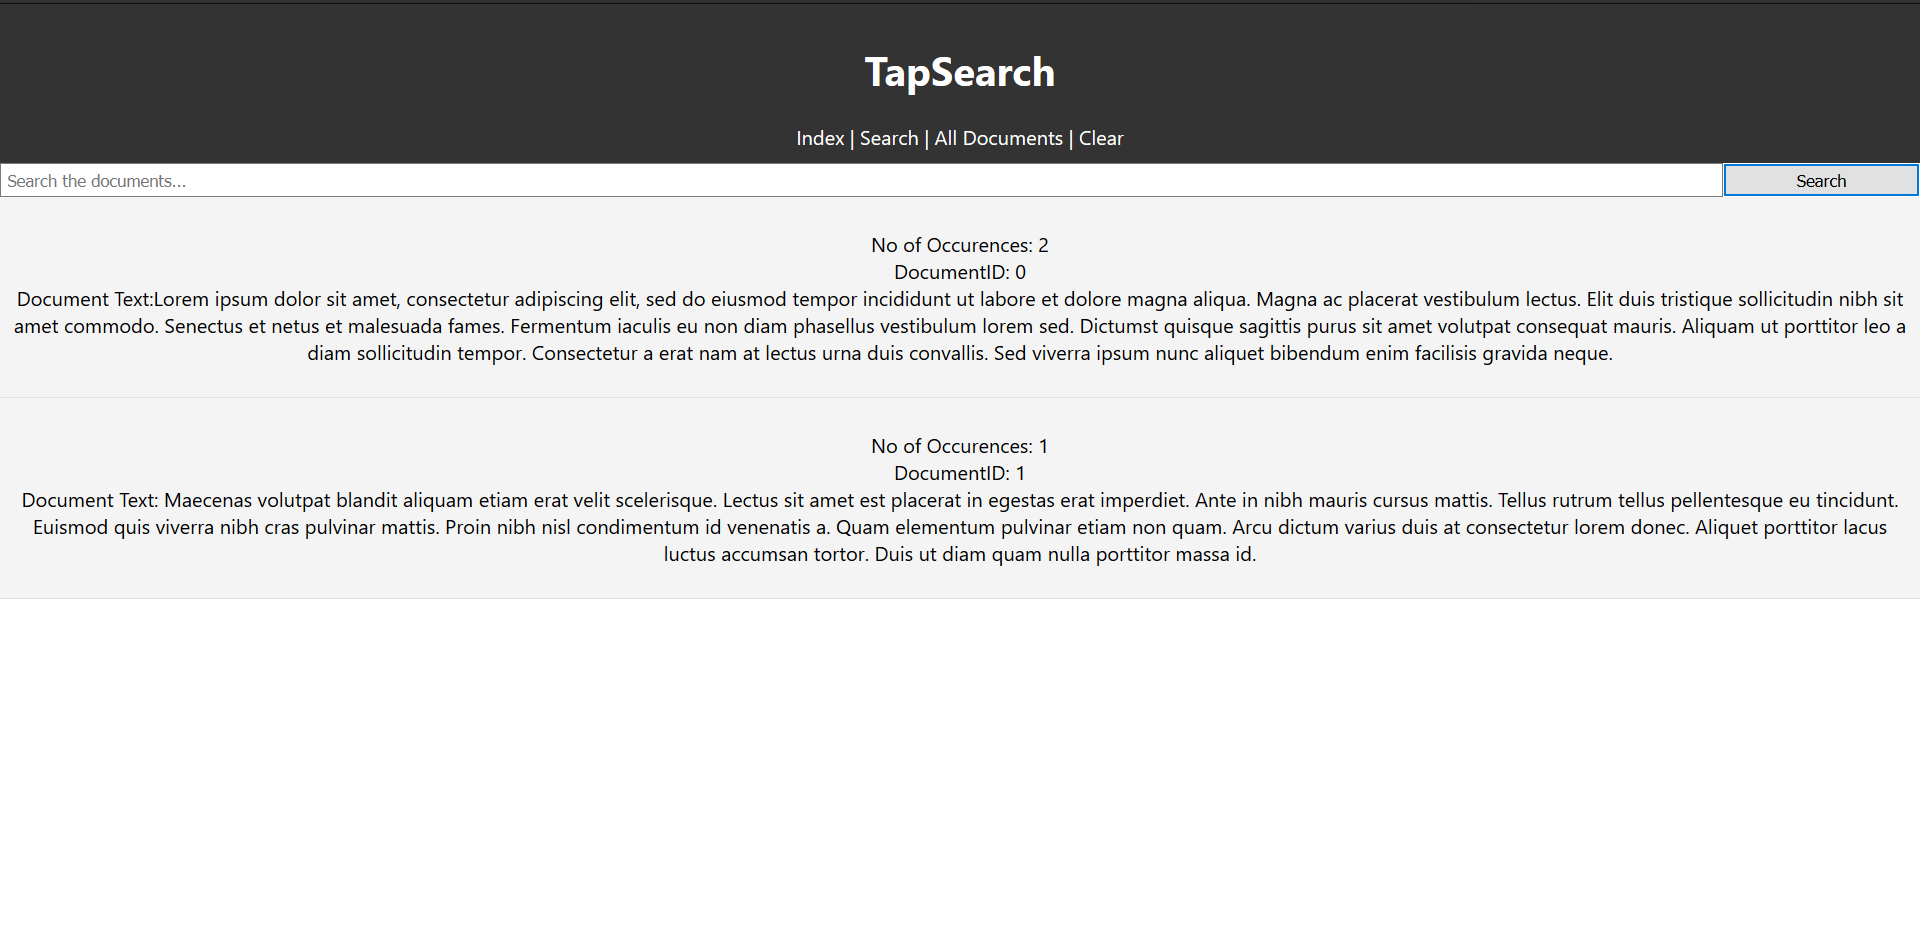
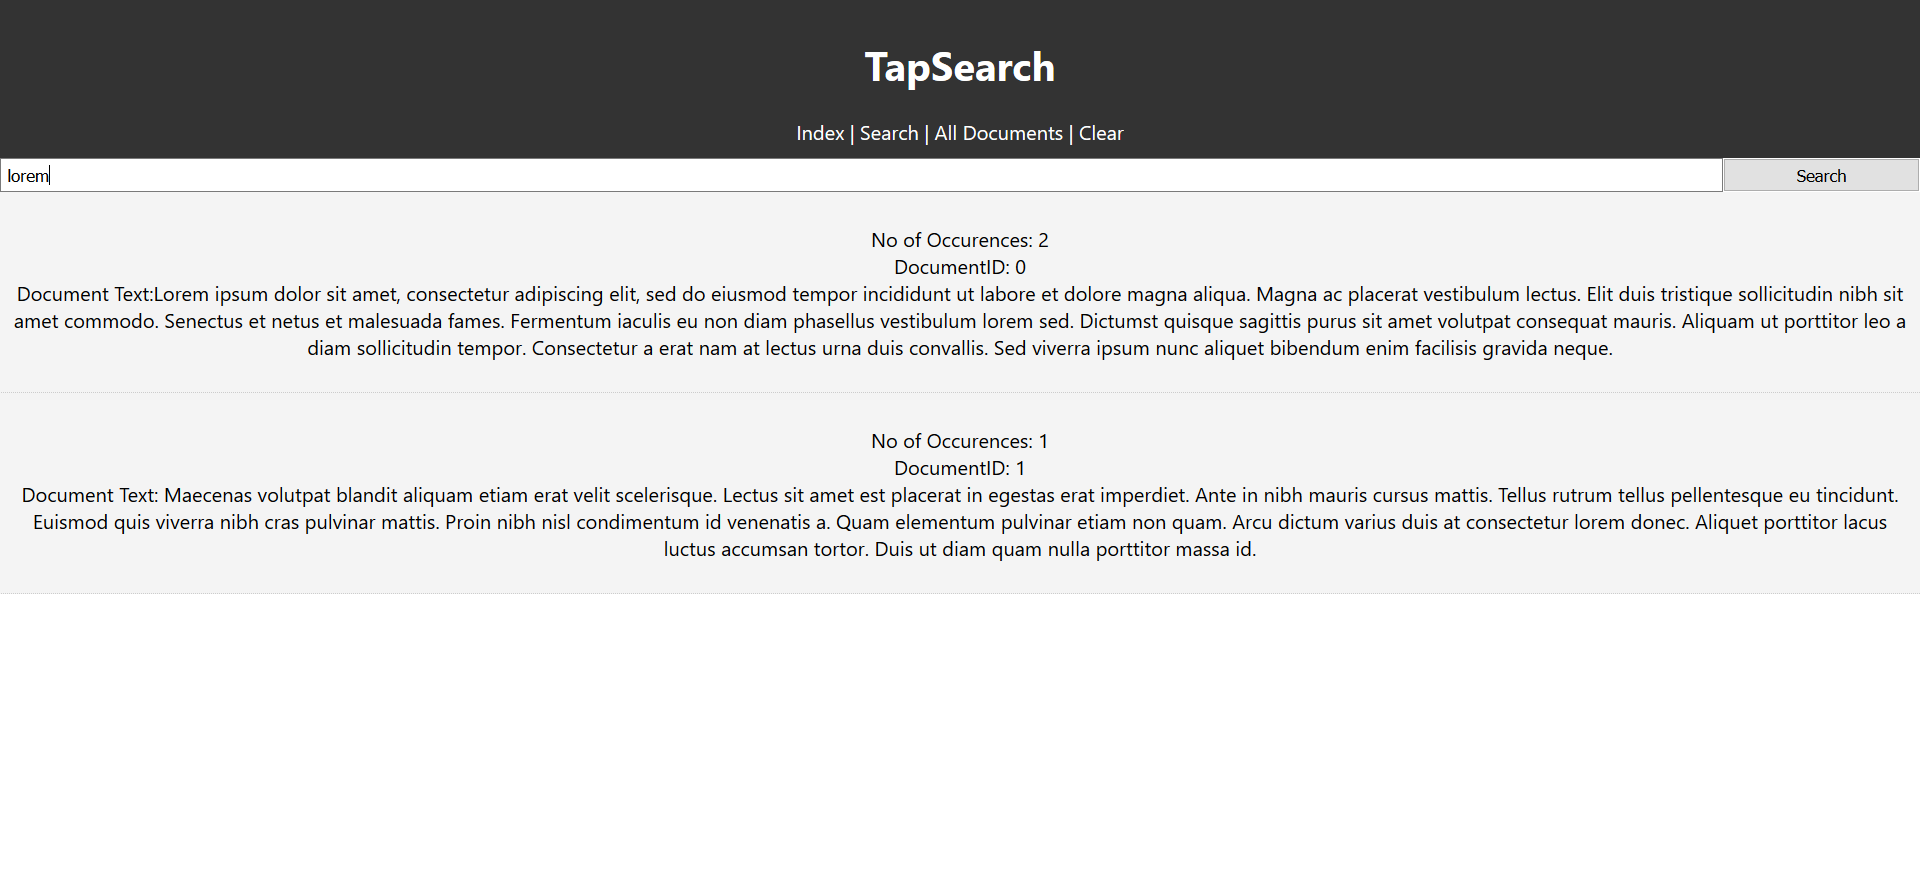
Adding images

diff --git a/frontend/src/Components/Search.js b/frontend/src/Components/Search.js
@@ -13,7 +13,6 @@ export class Search extends Component {
     };
     axios.post("http://127.0.0.1:8000/api/search", payload).then(res => {
       if (res.data["docs"].length !== 0) {
-        this.setState({ word: "" });
         this.setState({ references: res.data["docs"] });
       } else {
         this.setState({ word: "" });

diff --git a/backend/api/views.py b/backend/api/views.py
@@ -142,7 +142,7 @@ def indexing_docs(request):
 @api_view(['GET', 'POST'])
 def search_word(request):
     global index, db
-    res = index.lookup_query(request.data['word'])
+    res = index.lookup_query(request.data['word'].lower())
     print(res)
     for x in res:
         x.append(db.db[x[1]]['text'])
